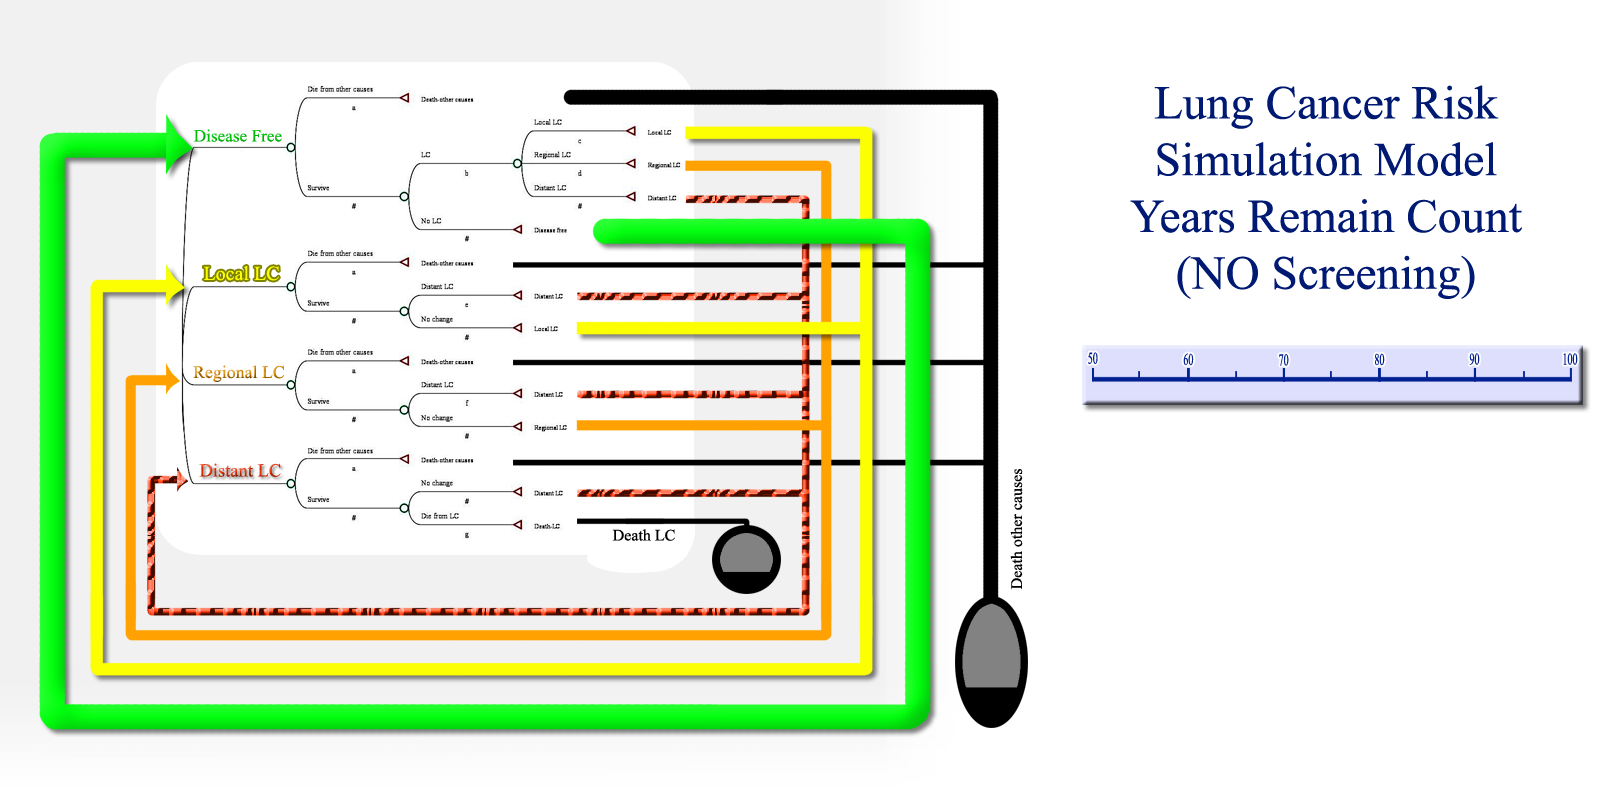
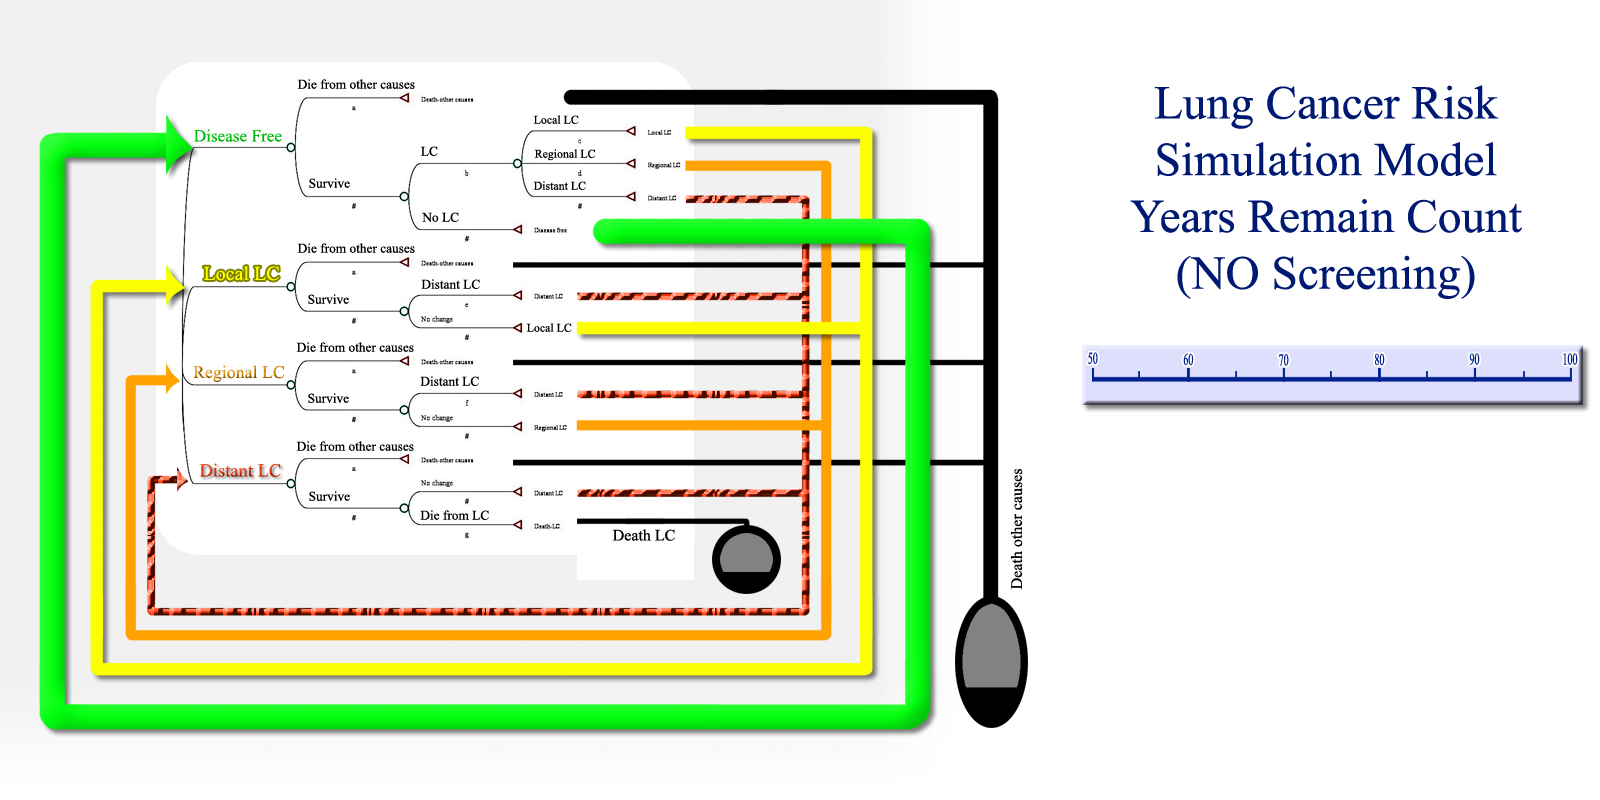
update Show Simulation

diff --git a/SimulateLCModelNoScreening.py b/SimulateLCModelNoScreening.py
@@ -2,10 +2,12 @@ import tkinter as tk
 
 
 def str_sum(local_LC):
-    sum = 0
+    s = 0.0
     for i in local_LC:
-        sum += i[0]
-    return str(sum)
+        s += i[0]
+    # s /= 12  # device by 12 to convert from months to years
+    return str("{:.20f}".format(s))
+
 
 class SimulateLCModelNoScreening:
     def __init__(self, window, LC_result):
@@ -37,11 +39,13 @@ class SimulateLCModelNoScreening:
         self.window = window
         HEIGHT = 800
         WIDTH = 1600
+        number_of_digit_display = 8
         self.window.title("Lung Cancer Risk Simulation Model - Years Remain Count (NO Screening)")
         self.window.iconbitmap('./images/lung_cancer1_icon.ico')
         # self.window.geometry("WIDTHxHEIGHT+0+0")
-        canvas = tk.Canvas(self.window, height=HEIGHT, width=WIDTH)
-        canvas.pack()
+        self.canvas = tk.Canvas(self.window, height=HEIGHT, width=WIDTH)
+        self.window.minsize(WIDTH, HEIGHT)
+        self.canvas.pack()
         try:
             path = './images/Lung cancer_2019-7-30_No Scanning1600x900 copy.png'
             bg_image = tk.PhotoImage(file=path)
@@ -52,47 +56,62 @@ class SimulateLCModelNoScreening:
             print("cant read the ./images/Lung cancer_2019-7-30_No Scanning1600x900 copy.png")
         self.window.geometry("+0+0")  # put the main window next to the upper left corner
 
-        close_button = tk.Button(self.window, text="Click Here to Close This Window", command=self.quit)
-        close_button.place(x=1250, y=600)
-
-        # Display the disease free number
-        tk.Label(self.window, text=str(disease_free)[:5]).place(x=225, y=157)   # , bg="green"
+        # add button to Close the Window
+        self.close_button = tk.Button(self.window, text="Click Here to Close This Window", command=self.quit)
+        self.close_button.place(x=1250, y=600)
 
         # Display the death other causes
-        tk.Label(self.window, text=str(death_other_causes)[:5]).place(x=1010, y=440)
+        tk.Label(self.window, text=str("{:.20f}".format(death_other_causes))[:number_of_digit_display],
+                 font=("Helvetica", 12)) \
+            .place(x=1010, y=430)
+
+        # Display the disease free number
+        tk.Label(self.window, text=str("{:.20f}".format(disease_free))[:number_of_digit_display], fg="green",
+                 font=("Helvetica", 12)) \
+            .place(x=205, y=157)
 
         # Display the Local LC
-        tk.Label(self.window, text=total_local_LC[:5]).place(x=225, y=295)
+        tk.Label(self.window, text=total_local_LC[:number_of_digit_display], fg="yellow", bg="black",
+                 font=("Helvetica", 12)) \
+            .place(x=205, y=295)
 
         # Display the Regional LC
-        tk.Label(self.window, text=total_regional_LC[:5]).place(x=225, y=397)
+        tk.Label(self.window, text=total_regional_LC[:number_of_digit_display], fg="orange", font=("Helvetica", 12)) \
+            .place(x=205, y=397)
 
         # Display the Distant LC
-        tk.Label(self.window, text=total_distant_LC[:5]).place(x=225, y=495)
+        tk.Label(self.window, text=total_distant_LC[:number_of_digit_display], fg="brown", font=("Helvetica", 12)) \
+            .place(x=205, y=495)
 
         # Display the Death LC
-        tk.Label(self.window, text=total_distant_LC[:5]).place(x=630, y=550)
+        tk.Label(self.window, text=total_distant_LC[:number_of_digit_display], font=("Helvetica", 12)) \
+            .place(x=610, y=550)
 
         # Display current age and life remain
         try:
             path = './images/current age pointer copy.png'
             pointer_image = tk.PhotoImage(file=path)
-            pointer_label = tk.Label(self.window, image=pointer_image)
-            pointer_label2 = tk.Label(self.window, image=pointer_image)
+            pointer_label = tk.Label(self.window, image=pointer_image, bd=0, highlightthickness=2)
+            pointer_label2 = tk.Label(self.window, image=pointer_image, bd=0, highlightthickness=2)
         except tk.TclError:
             print("cant read the ./images/current age pointer copy.png")
         x1 = int(1088 + (age - 50) * 9.505)
         x2 = int(x1 + years_remain * 9.505)
-        pointer_label.place(x=x1, y=383)
-        pointer_label2.place(x=x2, y=383)
-        tk.Label(self.window, text=str(age) + " + " + str(years_remain)[:6]).place(x=x1-8, y=412)
 
         # Draw the life remain bar
-        canvas.create_rectangle(x1, 383, x2, 383 + 5, outline="red", fill="red")
+        canvas = tk.Canvas(self.window, cursor='circle', height=5, width=x2 - x1, bg="red", bd=0, highlightthickness=0)
+        # "arrow"  "circle" "clock" "cross" "dotbox" "exchange" "fleur" "heart" "man" "mouse" "pirate" "plus" "shuttle"
+        # "sizing" "spider" "spraycan" "star" "target" "tcross" "trek" "watch"
+        canvas.place(x=x1 + 10, y=385)
+
+        # display the remaining year
+        pointer_label.place(x=x1, y=385)
+        # pointer_label2.place(x=x2, y=385)
+        tk.Label(self.window, text=str(age) + " + " + str("{:.20f}".format(years_remain))[:number_of_digit_display],
+                 fg="red", font=("Helvetica", 12)) \
+            .place(x=x1 - 20, y=412)
 
         self.window.mainloop()
 
     def quit(self):
         self.window.destroy()
-
-

diff --git a/get_years_remain_NO_screening.py b/get_years_remain_NO_screening.py
@@ -1,4 +1,5 @@
 from Person import Person, get_model_coef_from_file, get_basehaz_from_file
+from SimulateLCModelNoScreening import str_sum
 from read_LC_table_from_file import read_LC_table_from_file
 from read_distant_cancer_table_from_file import read_distant_cancer_table_from_file
 from read_life_table_from_file import read_life_table_from_file
@@ -153,19 +154,43 @@ def get_years_remain(p, life_table, LC_table, regional_LC_table, distant_LC_tabl
             ]
 
 
-def test():
+def test_1_person():
     # init reading data table
     life_table1 = read_life_table_from_file("input/Copy of Lung cancer_7-19-2019.xlsx")
     local_cancer2 = read_LC_table_from_file("input/Copy of Lung cancer_7-19-2019.xlsx")
     regional_cancer3 = read_regional_cancer_table_from_file("input/Copy of Lung cancer_7-19-2019.xlsx")
     distant_cancer4 = read_distant_cancer_table_from_file("input/Copy of Lung cancer_7-19-2019.xlsx")
 
+    # initiate the basehaz and the model_coef array to calculate the LCRAT_1mon_risk
+    basehaz_G = get_basehaz_from_file("input/lcrisk_tool.xlsx", 6)
+    basehaz_H = get_basehaz_from_file("input/lcrisk_tool.xlsx", 7)
+    basehaz_J = get_basehaz_from_file("input/lcrisk_tool.xlsx", 9)
+    model_coef_D = get_model_coef_from_file("input/lcrisk_tool.xlsx", 3)
+    model_coef_F = get_model_coef_from_file("input/lcrisk_tool.xlsx", 5)
+
+    # Person(age, gender, smkyears, qtyears, cpd, race, emp, fam_lung_trend, bmi, edu6)
     p1 = Person(72, 1, 42, 6, 24, 2, 0, 2, 27, 5, 50.4, 0.000983915, 4)
     p2 = Person(80, 0, 0, 0, 0, 0, 0, 0, 24.62, 0)
-    print(get_years_remain(p2, life_table1, local_cancer2, regional_cancer3, distant_cancer4, False))
+    p3 = Person(99, 0, 1, 0, 5, 0, 0, 0, 24.62, 0)
+
+    p3.initiate_LCRAT_1mon_risk(basehaz_G, basehaz_H, basehaz_J, model_coef_D, model_coef_F)
+
+    years_remain = get_years_remain(p3, life_table1, local_cancer2, regional_cancer3, distant_cancer4, None, None, True)
+
+    print("Remain : {}".format(years_remain[0]))
+    print("Disease_free : {}".format(years_remain[1]))
+    print("local_LC : {}".format(years_remain[2]))
+    print("         Sum : {}".format(str_sum(years_remain[2])))
+
+    print("regional_LC : {}".format(years_remain[3]))
+    print("distant_LC : {}".format(years_remain[4]))
+    print("death_other_causes : {}".format(years_remain[5]))
 
 
-def test2():
+# test_1_person()
+
+
+def test_read_people_from_file():
     # init reading data table
     life_table = read_life_table_from_file("input/Copy of Lung cancer_7-19-2019.xlsx")
     local_cancer = read_LC_table_from_file("input/Copy of Lung cancer_7-19-2019.xlsx")
@@ -193,4 +218,4 @@ def test2():
     print("\n ------------------------ \nTotal life years remain: " + str(total_years_remain) + " \n")
     print("Average life years per person: " + str(total_years_remain / len(people_list)) + " \n ----------------- \n")
 
-# test2()
+# test_read_people_from_file()

diff --git a/gui2.py b/gui2.py
@@ -179,6 +179,10 @@ def run_model_for_list_of_people(filename):
     output_text.insert(tk.END, " ---------------------------- \n")
 
 
+def generate_excel_table():
+    pass
+
+
 root = tk.Tk()
 
 
@@ -380,6 +384,14 @@ tk.Checkbutton(frame2, text="Read the list of people data from", variable=list_p
 file_name_entry = tk.Entry(frame2, width=30)
 file_name_entry.insert(tk.END, 'lcrisk_tool.xlsx')
 file_name_entry.pack()
+
+# Button to generate excel table for every combination
+tk.Label(frame2, bg="#5fb7fa").pack()
+tk.Label(frame2, bg="#5fb7fa").pack()
+tk.Label(frame2, bg="#5fb7fa", fg="white", text="________________________________________").pack()
+tk.Label(frame2, bg="#5fb7fa").pack()
+tk.Label(frame2, bg="#5fb7fa").pack()
+tk.Button(frame2, text="Generate Excel Table For Every Combination", command=generate_excel_table).pack()
 
 output_label = tk.Label(frame3, bg="#5fb7fa", text='This is the output: ', anchor='nw', justify='left')
 output_label.pack()

diff --git a/person.py b/person.py
@@ -60,6 +60,9 @@ class Person:
         self.LCRAT_1mon_risk = LCRAT_1mon_risk  # (Constant b) 1 month risk. Incidence of lung cancer by age, sex, race.
         # Lung cancer risk model-LCRAT
 
+        if LCRAT_1mon_risk != 0.000983915:
+            pass
+
     def initiate_LCRAT_1mon_risk(self, basehaz_G, basehaz_H, basehaz_J, model_coef_D, model_coef_F):
 
         # LCRAT_RR = EXP(   calculator!C2*model_coef!$D$4

diff --git a/test1.py b/test1.py
@@ -1,7 +1,6 @@
-import tkinter as tk
+s = 0.00000000000000000012
+print(s)
+print(str(s / 12))  # device by 12 to convert from months to years
 
-from SimulateLCModelNoScreening import SimulateLCModelNoScreening
-
-root = tk.Tk()
-window = tk.Toplevel(root)
-app = SimulateLCModelNoScreening(window)
+print("{:10.4f}".format(s))
+print("{:.20f}".format(s))
